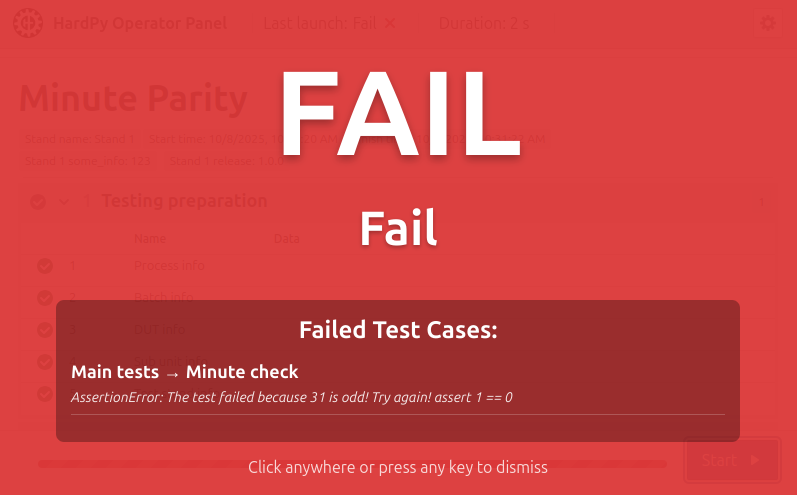
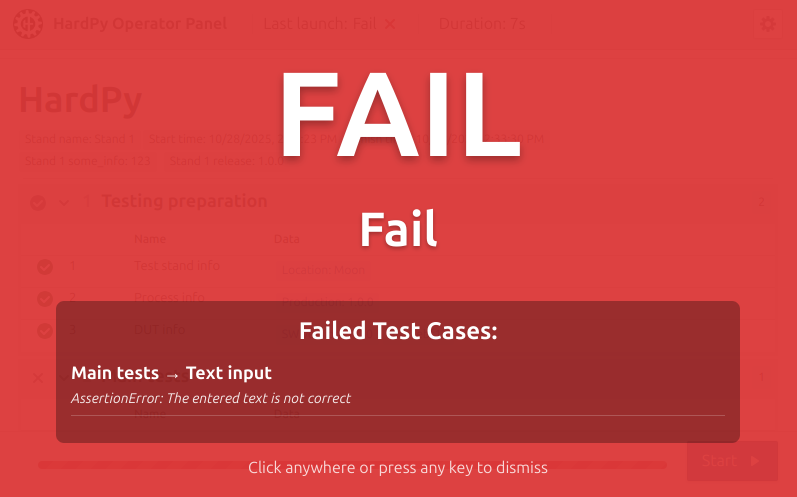
[docs] replace images

diff --git a/hardpy/hardpy_panel/frontend/src/hardpy_test_view/TestCompletionModalResult.tsx b/hardpy/hardpy_panel/frontend/src/hardpy_test_view/TestCompletionModalResult.tsx
@@ -250,7 +250,7 @@ const TestCompletionModalResult: React.FC<TestCompletionModalResultProps> = ({
               {testCase.moduleName} → {testCase.caseName}
             </div>
             {testCase.assertionMsg && (
-              <div style={assertionStyle}>{testCase.assertionMsg}</div>
+              <div style={assertionStyle}>{testCase.assertionMsg.split("\n")[0]}</div>
             )}
           </div>
         ))}
